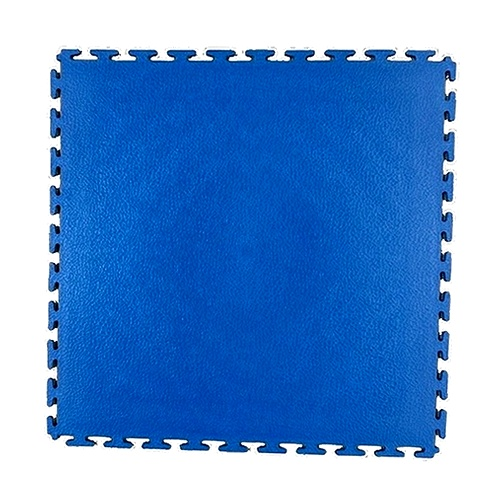
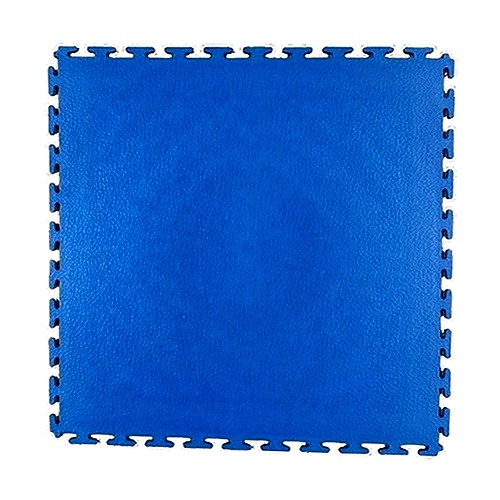
preview: enderezar trama y rejilla (fondo y encastres intactos)

diff --git a/calculadora-baldosas/sw.js b/calculadora-baldosas/sw.js
@@ -1,4 +1,4 @@
-const CACHE = 'nexa-v107-tiles-polish';
+const CACHE = 'nexa-v108-tiles-straight';
 const ASSETS = [
   './',
   './index.html',
